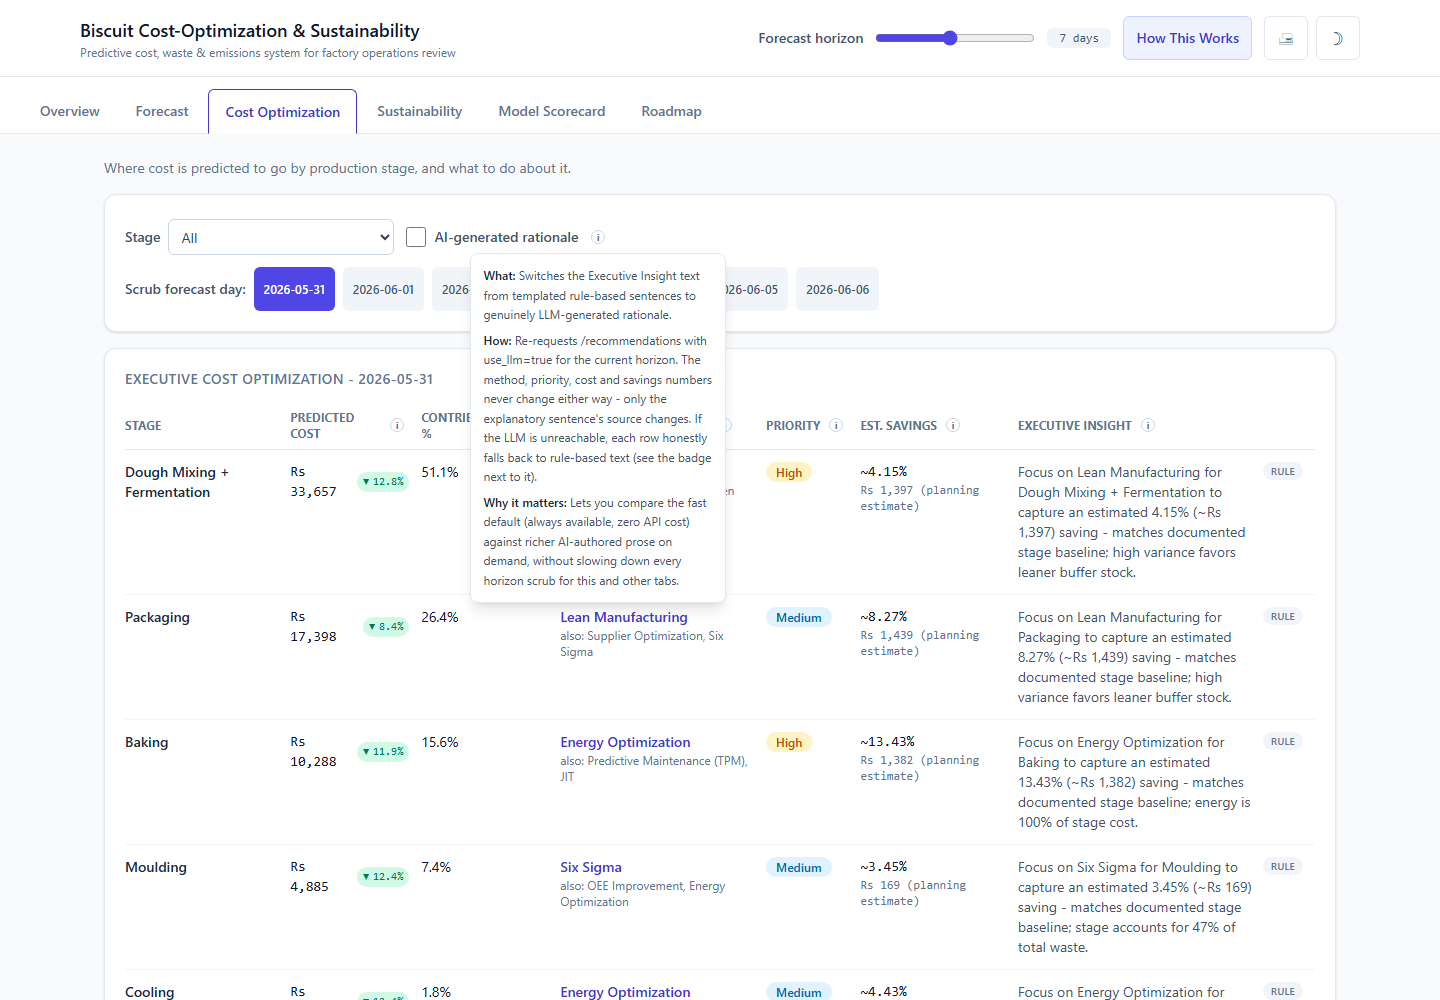
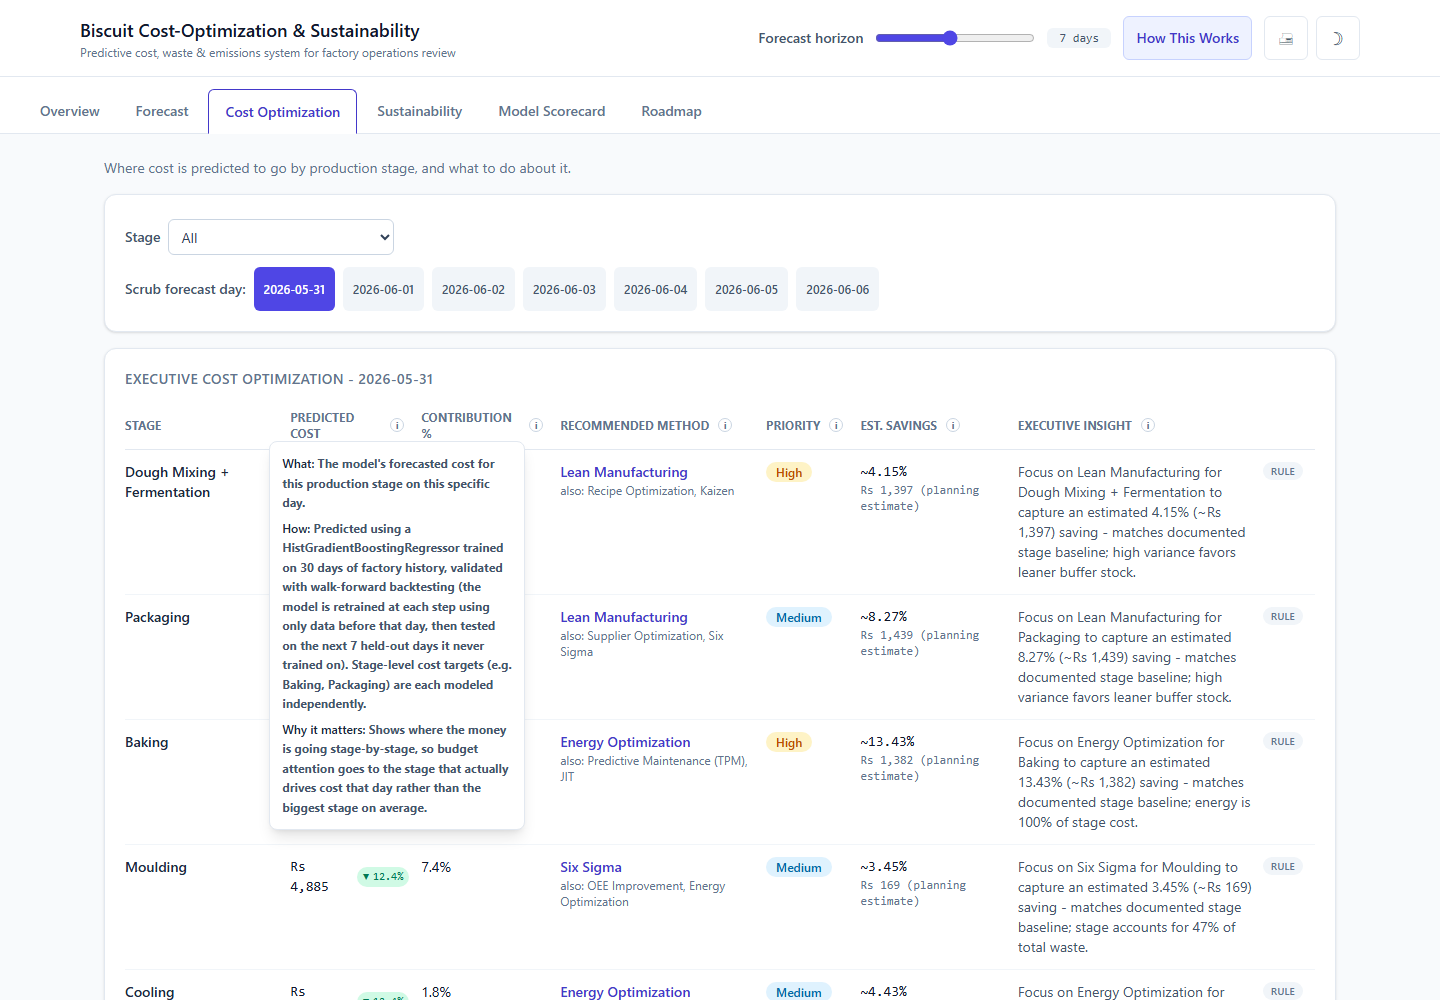
Remove AI-generated rationale toggle, keep dark mode fix

Changed region(s): [[0.1875, 0.217, 0.5, 0.837]]

diff --git a/frontend/src/components/CostOptimization.tsx b/frontend/src/components/CostOptimization.tsx
@@ -1,4 +1,4 @@
-import { useEffect, useMemo, useState, type ReactNode } from "react";
+import { useMemo, useState, type ReactNode } from "react";
 import type { RecommendationsResponse, HistoricalResponse } from "../types";
 import { Card, PriorityBadge, RefreshingBadge, SourceBadge, InfoTip, FilterSelect, TrendBadge, EmptyState, type InfoCopy } from "./ui";
 import { OPTIMIZATION } from "../copy";
@@ -19,52 +19,22 @@ export default function CostOptimization({
   recommendations,
   historical,
   refreshing = false,
-  aiInsights = false,
-  onToggleAiInsights,
-  recommendationsAi,
-  aiInsightsLoading = false,
-  aiInsightsError,
 }: {
   recommendations?: RecommendationsResponse;
   historical?: HistoricalResponse;
   refreshing?: boolean;
-  /** Whether the user has opted in to genuine LLM-generated rationale for this tab. */
-  aiInsights?: boolean;
-  onToggleAiInsights?: () => void;
-  /** Separately-fetched, use_llm=true version of `recommendations` - only
-   * populated once `aiInsights` is toggled on (see App.tsx). */
-  recommendationsAi?: RecommendationsResponse;
-  aiInsightsLoading?: boolean;
-  aiInsightsError?: string;
 }) {
   const [dayIdx, setDayIdx] = useState(0);
   const [stageFilter, setStageFilter] = useState("all");
-
-  // Only actually show AI-enriched data once it has arrived for the
-  // CURRENT horizon - `recommendations.horizon_days` and
-  // `recommendationsAi.horizon_days` are compared so a horizon change
-  // doesn't briefly show the previous horizon's AI text under the new
-  // horizon's numbers while the fresh AI fetch is still in flight.
-  const aiDataReady =
-    aiInsights && recommendationsAi && recommendations && recommendationsAi.horizon_days === recommendations.horizon_days;
-  const activeRecommendations = aiDataReady ? recommendationsAi : recommendations;
 
   const stages = useMemo(
     () => Array.from(new Set(recommendations?.days.flatMap((d) => d.stage_recommendations.map((r) => r.stage)) ?? [])),
     [recommendations]
   );
 
-  // If the horizon shrinks (or the AI fetch is for a different horizon),
-  // clamp the scrubbed day back into range rather than reading undefined.
-  useEffect(() => {
-    if (activeRecommendations && dayIdx > activeRecommendations.days.length - 1) {
-      setDayIdx(Math.max(0, activeRecommendations.days.length - 1));
-    }
-  }, [activeRecommendations, dayIdx]);
-
-  if (!recommendations || !activeRecommendations) return null;
-  const day = activeRecommendations.days[Math.min(dayIdx, activeRecommendations.days.length - 1)];
-  const prevDay = dayIdx > 0 ? activeRecommendations.days[dayIdx - 1] : undefined;
+  if (!recommendations) return null;
+  const day = recommendations.days[Math.min(dayIdx, recommendations.days.length - 1)];
+  const prevDay = dayIdx > 0 ? recommendations.days[dayIdx - 1] : undefined;
 
   function trendFor(stage: string, currentCost: number) {
     if (prevDay) {
@@ -86,36 +56,10 @@ export default function CostOptimization({
         <div className="mb-2 flex flex-wrap items-center gap-3">
           <RefreshingBadge visible={refreshing} />
           <FilterSelect label="Stage" value={stageFilter} options={stages} onChange={setStageFilter} />
-          <label className="flex min-h-11 items-center gap-2 text-sm text-slate-600 dark:text-slate-300">
-            <input
-              type="checkbox"
-              checked={aiInsights}
-              onChange={onToggleAiInsights}
-              data-ai-insights-toggle
-              className="h-5 w-5 accent-brand-600"
-            />
-            <span className="font-medium">AI-generated rationale</span>
-            <InfoTip
-              what="Switches the Executive Insight text from templated rule-based sentences to genuinely LLM-generated rationale."
-              how="Re-requests /recommendations with use_llm=true for the current horizon. The method, priority, cost and savings numbers never change either way - only the explanatory sentence's source changes. If the LLM is unreachable, each row honestly falls back to rule-based text (see the badge next to it)."
-              why="Lets you compare the fast default (always available, zero API cost) against richer AI-authored prose on demand, without slowing down every horizon scrub for this and other tabs."
-            />
-          </label>
-          {aiInsights && aiInsightsLoading && (
-            <span className="inline-flex items-center gap-1.5 text-xs font-medium text-brand-500 dark:text-brand-400">
-              <span className="h-1.5 w-1.5 animate-pulse rounded-full bg-brand-500 dark:bg-brand-400" />
-              Generating AI rationale for this horizon...
-            </span>
-          )}
-          {aiInsights && aiInsightsError && !aiInsightsLoading && (
-            <span className="text-xs font-medium text-amber-600 dark:text-amber-400">
-              AI request failed ({aiInsightsError}) - showing rule-based rationale.
-            </span>
-          )}
         </div>
         <div className="flex flex-wrap items-center gap-2">
           <span className="text-sm font-medium text-slate-600 dark:text-slate-300">Scrub forecast day:</span>
-          {activeRecommendations.days.map((d, i) => (
+          {recommendations.days.map((d, i) => (
             <button
               key={d.date}
               onClick={() => setDayIdx(i)}

diff --git a/frontend/src/App.tsx b/frontend/src/App.tsx
@@ -42,21 +42,6 @@ export default function App() {
   const [sustainability, setSustainability] = useState<SustainabilityResponse>();
   const [scorecard, setScorecard] = useState<ScorecardResponse>();
   const [error, setError] = useState<string>();
-
-  // AI-enriched recommendations are fetched separately from the main
-  // (fast, rule-based-only) `recommendations` state above, and only when
-  // the user opts in on the Cost Optimization tab. The default horizon-
-  // scrub fetch above always uses use_llm=false deliberately (see
-  // DEPLOYMENT.md / earlier perf work) - genuinely invoking the LLM for
-  // every stage on every day of a 14-day horizon is real per-call latency
-  // that would make scrubbing feel broken for Overview/Roadmap too, which
-  // both also consume `recommendations`. Keeping this as an isolated,
-  // explicit, on-demand fetch preserves that fast default everywhere else
-  // while still genuinely calling the LLM when AI enrichment is intended.
-  const [aiInsights, setAiInsights] = useState(false);
-  const [recommendationsAi, setRecommendationsAi] = useState<RecommendationsResponse>();
-  const [aiInsightsLoading, setAiInsightsLoading] = useState(false);
-  const [aiInsightsError, setAiInsightsError] = useState<string>();
   // initialLoading blocks the whole page only until the first successful
   // load. Subsequent horizon changes use `refreshing` instead, so tab
   // content (charts, tables) stays visible with an inline indicator rather
@@ -89,31 +74,6 @@ export default function App() {
         setRefreshing(false);
       });
   }, [horizon, retryKey]);
-
-  // Only fetches once AI insights are actually requested (see `aiInsights`
-  // above), and re-fetches whenever the shared horizon changes while that's
-  // still on, so the Cost Optimization tab's AI view never shows stale
-  // numbers from a previous horizon.
-  useEffect(() => {
-    if (!aiInsights) return;
-    let cancelled = false;
-    setAiInsightsLoading(true);
-    setAiInsightsError(undefined);
-    api
-      .recommendations(horizon, true)
-      .then((r) => {
-        if (!cancelled) setRecommendationsAi(r);
-      })
-      .catch((e) => {
-        if (!cancelled) setAiInsightsError(String(e));
-      })
-      .finally(() => {
-        if (!cancelled) setAiInsightsLoading(false);
-      });
-    return () => {
-      cancelled = true;
-    };
-  }, [aiInsights, horizon]);
 
   const footer = recommendations?.footer ?? historical?.footer;
 
@@ -172,18 +132,7 @@ export default function App() {
               <Overview forecast={forecast} recommendations={recommendations} sustainability={sustainability} historical={historical} />
             )}
             {tab === "forecast" && <ForecastView forecast={forecast} historical={historical} refreshing={refreshing} />}
-            {tab === "optimization" && (
-              <CostOptimization
-                recommendations={recommendations}
-                historical={historical}
-                refreshing={refreshing}
-                aiInsights={aiInsights}
-                onToggleAiInsights={() => setAiInsights((v) => !v)}
-                recommendationsAi={recommendationsAi}
-                aiInsightsLoading={aiInsightsLoading}
-                aiInsightsError={aiInsightsError}
-              />
-            )}
+            {tab === "optimization" && <CostOptimization recommendations={recommendations} historical={historical} refreshing={refreshing} />}
             {tab === "sustainability" && <Sustainability sustainability={sustainability} refreshing={refreshing} />}
             {tab === "scorecard" && <ModelScorecard scorecard={scorecard} refreshing={refreshing} />}
             {tab === "roadmap" && (
